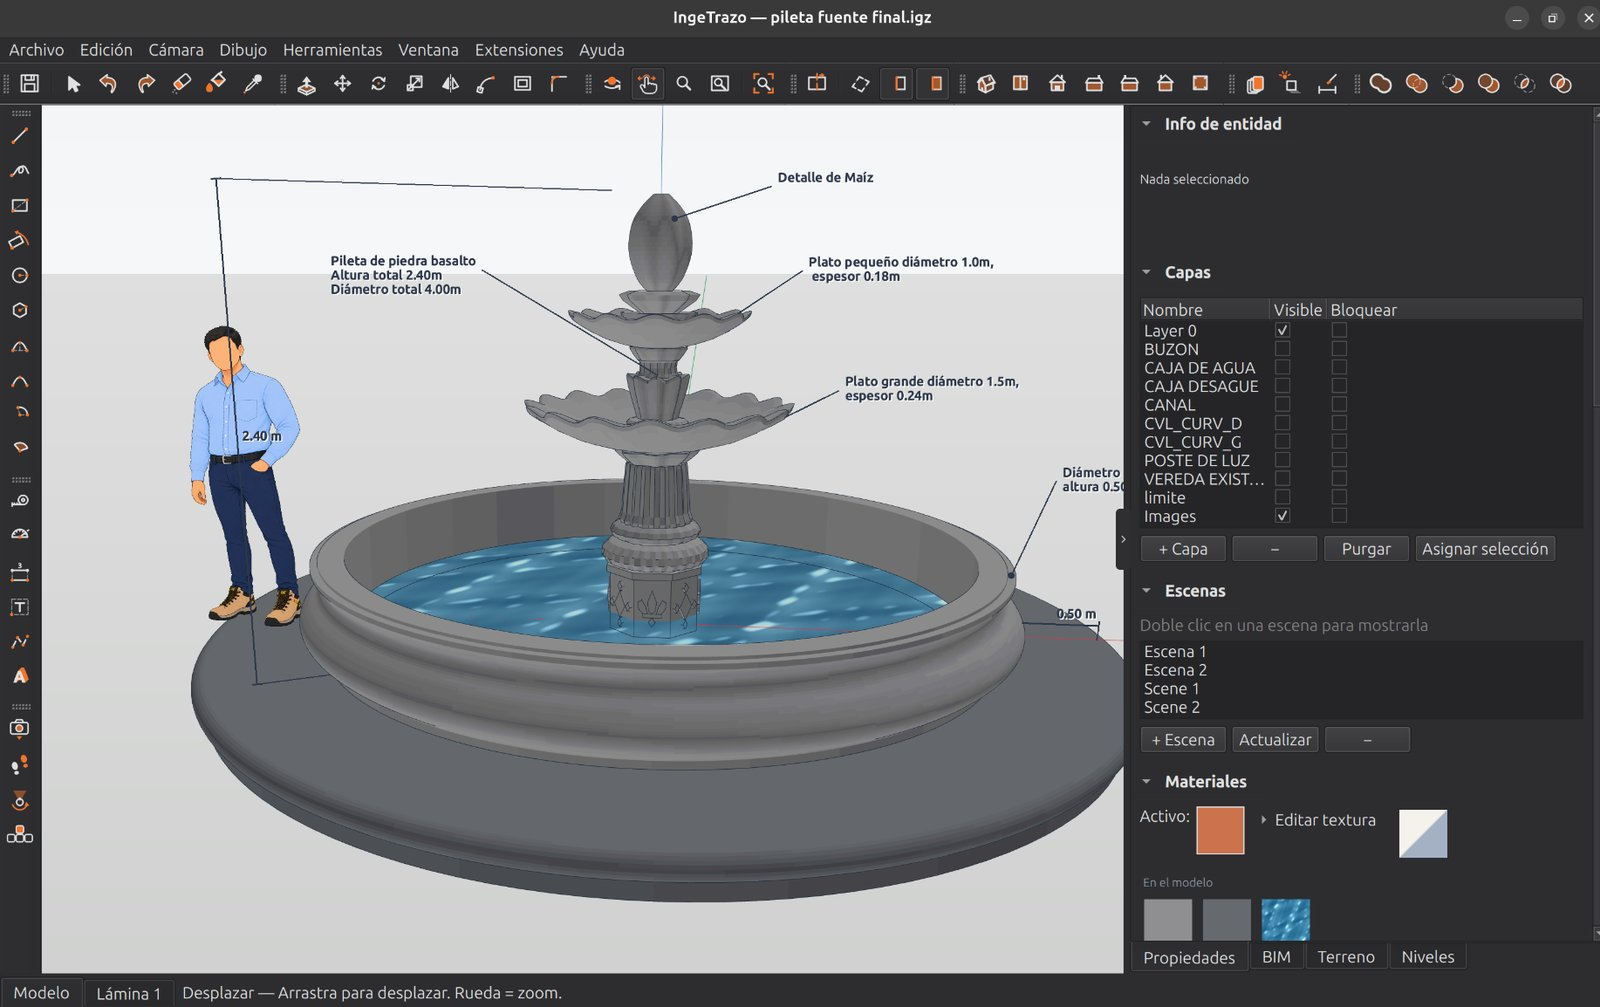
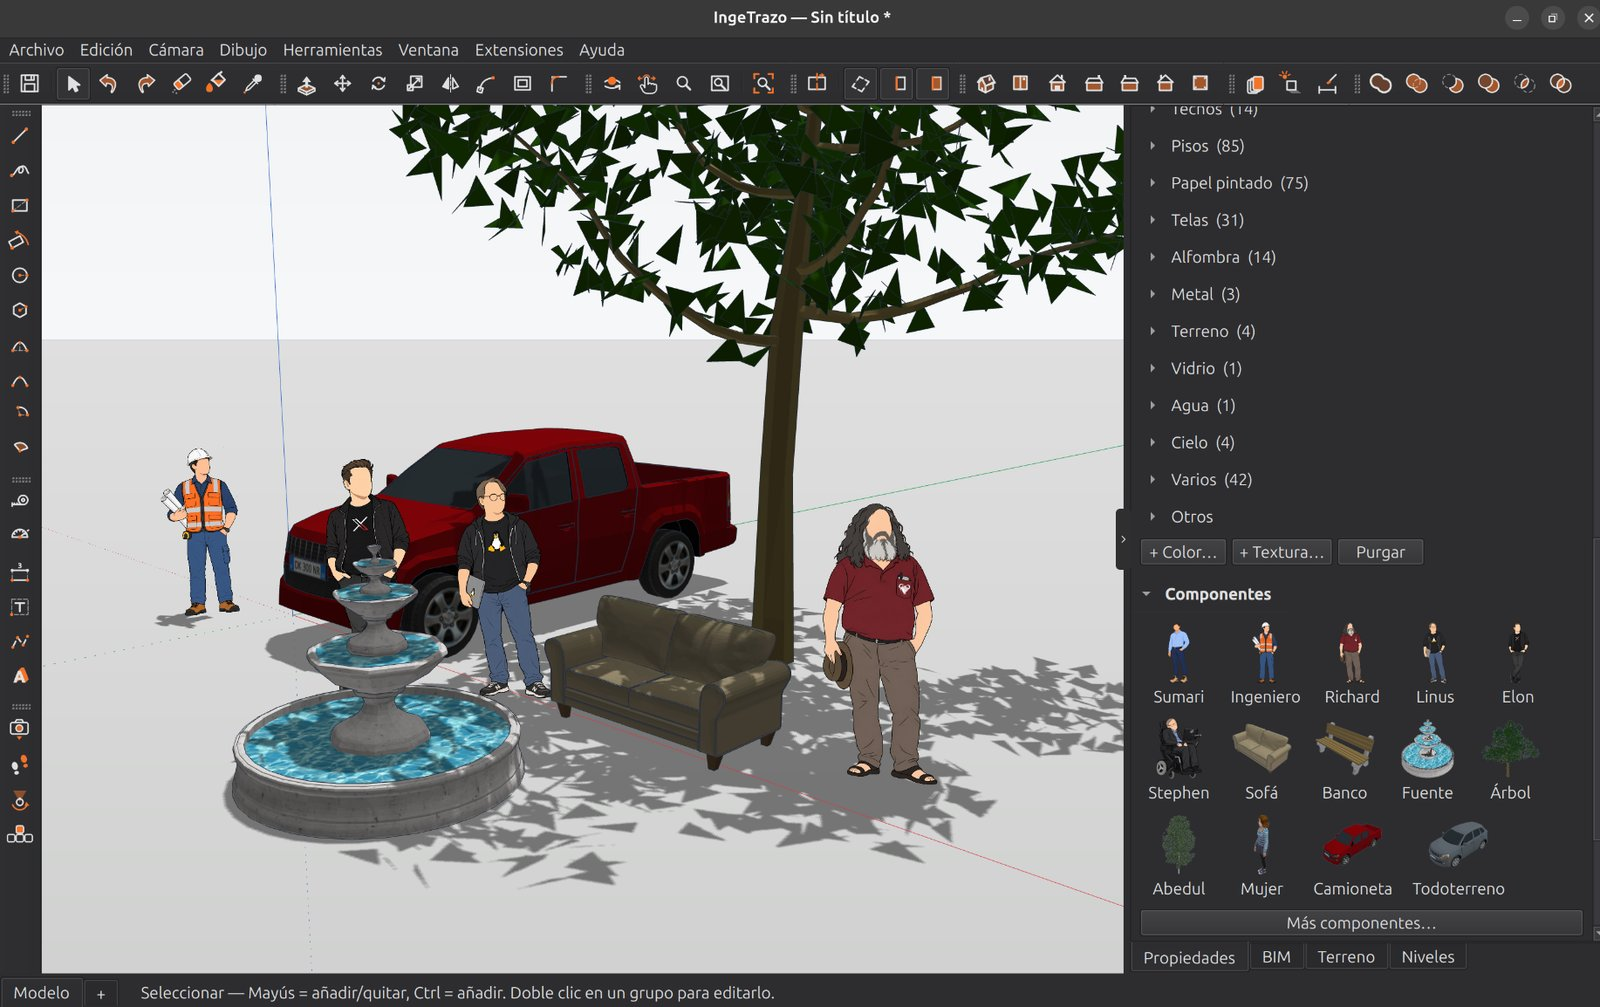
screenshots: Marco's own 'draw as if by hand' and 'populate the scene' captures

diff --git a/index.html b/index.html
@@ -226,7 +226,7 @@
         </div>
         <figure class="feat-img">
           <img class="zoomable" src="/images/screenshots/modelado.jpeg"
-               alt="Banca con pérgola de Yanque modelada en IngeTrazo, con sus cotas y dos figuras de escala: el ingeniero con casco y el autor" width="1600" height="1005" loading="lazy">
+               alt="Dibujando en IngeTrazo la banca con pérgola de Yanque: un rectángulo a medio trazar sobre el dado de concreto con su medida 0,65 × 1,35 m en el cuadro de valores, junto a la figura del ingeniero con casco" width="1600" height="1007" loading="lazy">
         </figure>
       </div>
     </section>
@@ -345,7 +345,7 @@
         </div>
         <figure class="feat-img">
           <img class="zoomable" src="/images/screenshots/componentes.jpeg"
-               alt="Pileta de piedra basalto de la plaza de Yanque con textos guía y cotas (altura 2,40 m, diámetro 4,00 m) y una figura de escala a su lado" width="1600" height="1007" loading="lazy">
+               alt="Escena poblada con la bandeja de componentes de IngeTrazo: árbol con sombras, camioneta, sofá, pileta y figuras de escala, con la biblioteca de personas, muebles, árboles y vehículos a la derecha" width="1600" height="1007" loading="lazy">
         </figure>
       </div>
     </section>

diff --git a/pt/index.html b/pt/index.html
@@ -226,7 +226,7 @@
         </div>
         <figure class="feat-img">
           <img class="zoomable" src="/images/screenshots/modelado.jpeg"
-               alt="Banco com pérgola de Yanque modelado no IngeTrazo, com suas cotas e duas figuras de escala: o engenheiro de capacete e o autor" width="1600" height="1005" loading="lazy">
+               alt="Desenhando no IngeTrazo o banco com pérgola de Yanque: um retângulo sendo traçado sobre a base de concreto com a medida 0,65 × 1,35 m na caixa de valores, ao lado da figura do engenheiro de capacete" width="1600" height="1007" loading="lazy">
         </figure>
       </div>
     </section>
@@ -345,7 +345,7 @@
         </div>
         <figure class="feat-img">
           <img class="zoomable" src="/images/screenshots/componentes.jpeg"
-               alt="Fonte de pedra basalto da praça de Yanque com textos de chamada e cotas (altura 2,40 m, diâmetro 4,00 m) e uma figura de escala ao lado" width="1600" height="1007" loading="lazy">
+               alt="Cena povoada com a bandeja de componentes do IngeTrazo: árvore com sombras, caminhonete, sofá, fonte e figuras de escala, com a biblioteca de pessoas, móveis, árvores e veículos à direita" width="1600" height="1007" loading="lazy">
         </figure>
       </div>
     </section>

diff --git a/en/index.html b/en/index.html
@@ -226,7 +226,7 @@
         </div>
         <figure class="feat-img">
           <img class="zoomable" src="/images/screenshots/modelado.jpeg"
-               alt="A bench with a pergola from Yanque modeled in IngeTrazo, with its dimensions and two scale figures: the engineer in a hard hat and the author" width="1600" height="1005" loading="lazy">
+               alt="Drawing Yanque's bench with pergola in IngeTrazo: a rectangle half-drawn on the concrete footing with its size, 0.65 × 1.35 m, in the value box, next to the engineer figure in a hard hat" width="1600" height="1007" loading="lazy">
         </figure>
       </div>
     </section>
@@ -345,7 +345,7 @@
         </div>
         <figure class="feat-img">
           <img class="zoomable" src="/images/screenshots/componentes.jpeg"
-               alt="Basalt stone fountain from Yanque's square with leader texts and dimensions (2.40 m high, 4.00 m across) and a scale figure beside it" width="1600" height="1007" loading="lazy">
+               alt="A scene populated from IngeTrazo's component tray: a tree casting shadows, a pickup, a sofa, a fountain and scale figures, with the library of people, furniture, trees and vehicles on the right" width="1600" height="1007" loading="lazy">
         </figure>
       </div>
     </section>
